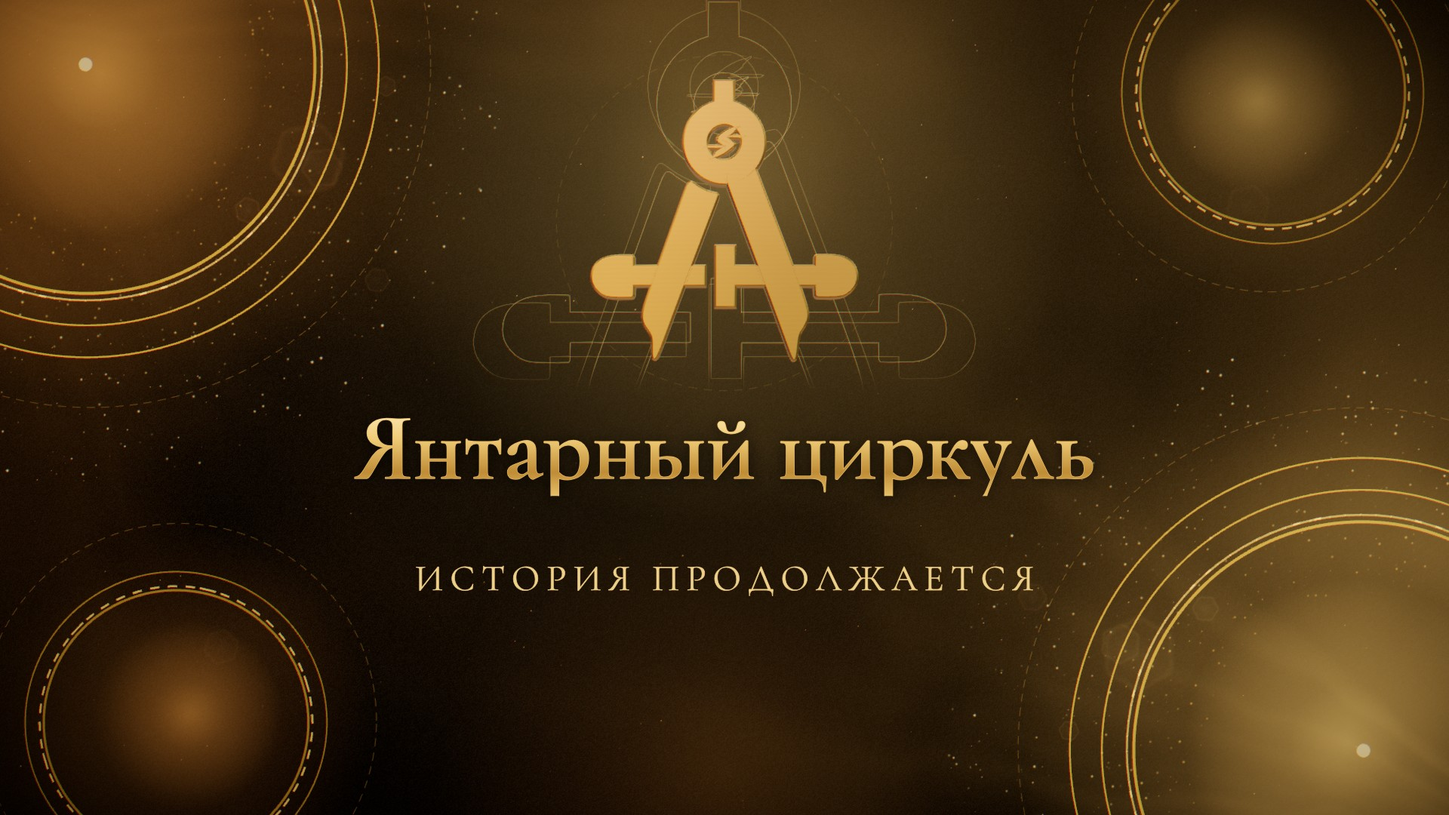
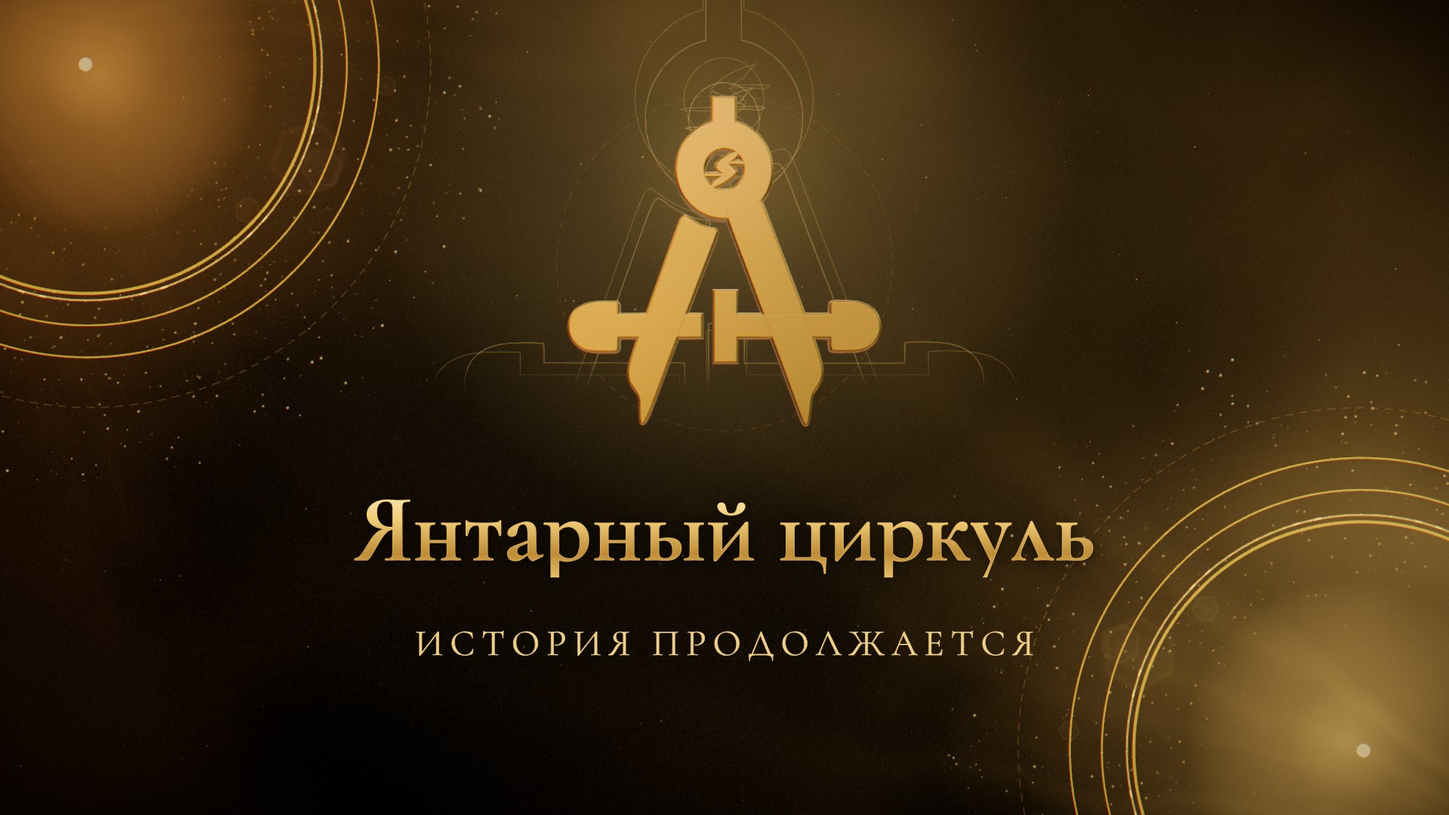
Крупный знак и титр в нижней трети; углы фона снова только два

diff --git a/src/fx.js b/src/fx.js
@@ -228,28 +228,14 @@ function makeGlowTexture() {
 }
 
 export class Corners {
-  /** @param {{distributed?: boolean}} [options] distributed — малые группы в двух
-   *  свободных углах; у интро остаются только основная пара, как в исходной сцене. */
-  constructor({ distributed = true } = {}) {
+  constructor() {
     this.group = new THREE.Group();
     this.glowTex = makeGlowTexture();
-    this.distributed = distributed;
-    // Основная диагональ — крупные кольца; вторая пара — тише и мельче,
-    // чтобы мотив был распределён по всему кадру.
+    // Две группы колец: слева сверху и справа снизу — как в исходной сцене.
     this.sides = {
       left: this._makeSide("left"),
       right: this._makeSide("right"),
     };
-    this.faint = { left: false, right: false };
-    this.sideScale = { left: 1, right: 1 };
-    if (distributed) {
-      this.sides.tr = this._makeSide("tr");
-      this.sides.bl = this._makeSide("bl");
-      this.faint.tr = true;
-      this.faint.bl = true;
-      this.sideScale.tr = 0.58;
-      this.sideScale.bl = 0.58;
-    }
     this.sig = "";
     this.matCount = 0;
     // разметка циркулем: пунктирная окружность и «ножка» — плоские, в плоскости фона
@@ -277,18 +263,7 @@ export class Corners {
     });
     this.sprites = {};
     this.lights = {};
-    // Мягкие ореолы в свободных квадрантах: свет распределён по кадру,
-    // а не собран только в двух противоположных углах.
-    this.veils = (distributed ? ["tr", "bl", "bottom"] : []).map((name) => {
-      const sprite = new THREE.Sprite(new THREE.SpriteMaterial({
-        map: this.glowTex, color: 0xffc172, transparent: true, depthWrite: false,
-        blending: THREE.AdditiveBlending, opacity: 0,
-      }));
-      sprite.position.z = -0.32;
-      this.group.add(sprite);
-      return { name, sprite };
-    });
-    for (const side of Object.keys(this.sides)) {
+    for (const side of ["left", "right"]) {
       const s = this.sides[side];
       const sprite = new THREE.Sprite(new THREE.SpriteMaterial({
         map: this.glowTex, color: 0xffb55c, transparent: true, depthWrite: false, blending: THREE.AdditiveBlending, opacity: 0.8,
@@ -339,19 +314,17 @@ export class Corners {
     const sig = [cfg.rings.radius, cfg.rings.thickness, cfg.rings.layers].join("|");
     if (sig === this.sig) return;
     this.sig = sig;
-    for (const side of Object.keys(this.sides)) {
+    for (const side of ["left", "right"]) {
       const s = this.sides[side];
-      const scale = this.sideScale[side];
-      const faint = this.faint[side];
       for (const l of s.layers) { s.group.remove(l.mesh); l.mesh.geometry.dispose(); l.mesh.material.dispose(); }
       if (s.ticks) { s.group.remove(s.ticks); s.ticks.geometry.dispose(); s.ticks = null; }
       if (s.construction) { s.group.remove(s.construction); s.construction.geometry.dispose(); }
       if (s.pivot) { s.group.remove(s.pivot); s.pivot.geometry.dispose(); }
       s.layers = [];
-      const layers = Math.max(faint ? 2 : 1, Math.round(cfg.rings.layers) - (faint ? 1 : 0));
+      const layers = Math.round(cfg.rings.layers);
       for (let i = 0; i < layers; i++) {
-        const r = cfg.rings.radius * scale * (1 + i * 0.14);
-        const tube = cfg.rings.thickness * (i === 0 ? 1.2 : 0.7) * (faint ? 0.8 : 1);
+        const r = cfg.rings.radius * (1 + i * 0.14);
+        const tube = cfg.rings.thickness * (i === 0 ? 1.2 : 0.7);
         const geo = new THREE.RingGeometry(r - tube * 0.5, r + tube * 0.5, 256, 1);
         const { mat, u } = this._ringMat(0xe0b25a);
         const mesh = new THREE.Mesh(geo, mat);
@@ -360,17 +333,15 @@ export class Corners {
         s.layers.push({ mesh, u, idx: i });
       }
       // архитектурные риски на внешнем кольце — плоские штрихи
-      const tickCount = faint ? 48 : 96;
-      s.tickTotal = tickCount;
-      const tickGeo = new THREE.PlaneGeometry(cfg.rings.thickness * 0.8, cfg.rings.radius * scale * 0.07);
+      const tickCount = 96;
+      const tickGeo = new THREE.PlaneGeometry(cfg.rings.thickness * 0.8, cfg.rings.radius * 0.07);
       const ticks = new THREE.InstancedMesh(tickGeo, this.tickMat, tickCount);
       const m = new THREE.Matrix4(), q = new THREE.Quaternion(), p = new THREE.Vector3(), sc = new THREE.Vector3(1, 1, 1);
       for (let i = 0; i < tickCount; i++) {
         const a = (i / tickCount) * Math.PI * 2;
         const major = i % 8 === 0 ? 1.8 : 1;
         sc.set(1, major, 1);
-        p.set(Math.cos(a) * cfg.rings.radius * scale * 1.03,
-          Math.sin(a) * cfg.rings.radius * scale * 1.03, 0);
+        p.set(Math.cos(a) * cfg.rings.radius * 1.03, Math.sin(a) * cfg.rings.radius * 1.03, 0);
         q.setFromAxisAngle(new THREE.Vector3(0, 0, 1), a);
         m.compose(p, q, sc);
         ticks.setMatrixAt(i, m);
@@ -382,19 +353,16 @@ export class Corners {
       const pts = [];
       for (let i = 0; i <= 192; i++) {
         const a = (i / 192) * Math.PI * 2;
-        pts.push(new THREE.Vector3(Math.cos(a) * cfg.rings.radius * scale * 1.5,
-          Math.sin(a) * cfg.rings.radius * scale * 1.5, -0.05));
+        pts.push(new THREE.Vector3(Math.cos(a) * cfg.rings.radius * 1.5, Math.sin(a) * cfg.rings.radius * 1.5, -0.05));
       }
       const construction = new THREE.Line(new THREE.BufferGeometry().setFromPoints(pts), this.constMat);
       construction.computeLineDistances();
       s.construction = construction;
       s.group.add(construction);
-      if (!faint) {
-        const pivot = new THREE.Mesh(new THREE.CircleGeometry(cfg.rings.radius * 0.03, 24), this.pivotMat);
-        pivot.position.z = 0.02;
-        s.pivot = pivot;
-        s.group.add(pivot);
-      }
+      const pivot = new THREE.Mesh(new THREE.CircleGeometry(cfg.rings.radius * 0.03, 24), this.pivotMat);
+      pivot.position.z = 0.02;
+      s.pivot = pivot;
+      s.group.add(pivot);
     }
   }
 
@@ -408,8 +376,6 @@ export class Corners {
       left: { x: -halfW * cfg.rings.cornerX * 2, y: halfH * cfg.rings.cornerY * 2, dir: 1 },
       right: { x: halfW * cfg.rings.cornerX * 2, y: -halfH * cfg.rings.cornerY * 2, dir: -1 },
       // Малые группы чуть отведены от кромки, чтобы читались целиком.
-      tr: { x: halfW * cfg.rings.cornerX * 1.72, y: halfH * cfg.rings.cornerY * 1.84, dir: -1 },
-      bl: { x: -halfW * cfg.rings.cornerX * 1.72, y: -halfH * cfg.rings.cornerY * 1.84, dir: 1 },
     };
     const sp = cfg.rings.speed;
     const ringCol = new THREE.Color(cfg.colors.gold).multiplyScalar(0.8 + 0.3 * cfg.rings.glowIntensity);
@@ -424,59 +390,38 @@ export class Corners {
     cr.scale.setScalar(cfg.rings.radius * (0.8 - 0.06 * focus));
     this.centerMat.opacity = 0.18 * env * (1 - 0.67 * focus);
     this.tickMat.opacity = 0.8 * env * (1 - 0.2 * focus);
-    for (const name of Object.keys(this.sides)) {
+    for (const name of ["left", "right"]) {
       const s = this.sides[name];
       const c = sides[name];
-      const faint = this.faint[name];
-      // Мелкие группы живут тише и разгораются позже — свет распределён, но не спорит.
-      const sideEnv = env * (faint ? 0.62 : 1);
       s.group.position.set(c.x, c.y, 0);
-      s.group.visible = cfg.rings.enabled && sideEnv > 0.0005;
+      s.group.visible = cfg.rings.enabled && env > 0.0005;
       s.group.scale.setScalar(1);
       // кольца рисуются дугой из плоскости фона: появление и уход — через проход дуги, без масштаба
       s.layers.forEach((l) => {
         l.mesh.material.color.copy(ringCol);
         l.u.value = ringSweep(env, l.idx);
-        l.mesh.material.opacity = (1 - 0.38 * focus) * (faint ? 0.50 : 1);
+        l.mesh.material.opacity = 1 - 0.38 * focus;
       });
       // Риски и пунктир не должны заранее выдавать уже замкнутый круг:
       // отрисовываем только построенный сектор, как у основных дуг.
       const construction = ringSweep(env, 0);
       if (s.ticks) {
-        s.ticks.count = Math.ceil((s.tickTotal || 96) * construction);
+        s.ticks.count = Math.ceil(96 * construction);
         s.ticks.rotation.set(0, 0, t * sp * 0.2 * c.dir);
       }
       s.construction?.geometry.setDrawRange(0, Math.ceil(193 * construction));
 
-      const phaseShift = name === "left" ? 0 : name === "right" ? 2.1 : name === "tr" ? 4.4 : 5.6;
-      const flick = 1 + cfg.rings.flicker * (Math.sin(t * 7.3 + phaseShift) * 0.5 + Math.sin(t * 2.9 + 4.0) * 0.5);
-      const lightCol = name === "left" || name === "bl" ? cfg.colors.lightLeft : cfg.colors.lightRight;
-      const intensity = cfg.rings.lightStrength * flick * 6 * cfg.lights.exposure * sideEnv *
-        (1 - 0.55 * focus) * (faint ? 0.45 : 1);
+      const flick = 1 + cfg.rings.flicker * (Math.sin(t * 7.3 + (name === "left" ? 0 : 2.1)) * 0.5 + Math.sin(t * 2.9 + 4.0) * 0.5);
+      const lightCol = name === "left" ? cfg.colors.lightLeft : cfg.colors.lightRight;
+      const intensity = cfg.rings.lightStrength * flick * 6 * cfg.lights.exposure * env * (1 - 0.55 * focus);
       const light = this.lights[name];
       light.color.set(lightCol);
       light.intensity = intensity;
       light.distance = 10 + cfg.background.lightSpread * 4;
       const sprite = this.sprites[name];
       sprite.material.color.set(lightCol);
-      sprite.material.opacity = Math.min(1, 0.45 * cfg.rings.glowIntensity * flick) * sideEnv *
-        (1 - 0.50 * focus) * (faint ? 0.55 : 1);
-      sprite.scale.setScalar(cfg.rings.radius * 4.2 * cfg.background.lightSpread * this.sideScale[name]);
-    }
-    // Заполняющий свет: заметно тише основных углов, чтобы не спорить с титром.
-    const veilPositions = {
-      tr: { x: halfW * cfg.rings.cornerX * 1.72, y: halfH * cfg.rings.cornerY * 1.84 },
-      bl: { x: -halfW * cfg.rings.cornerX * 1.72, y: -halfH * cfg.rings.cornerY * 1.84 },
-      bottom: { x: 0, y: -halfH * 0.92 },
-    };
-    for (const { name, sprite } of this.veils) {
-      const p = veilPositions[name];
-      const flick = 1 + cfg.rings.flicker * 0.5 * Math.sin(t * 1.7 + (name === "tr" ? 1.2 : name === "bl" ? 3.4 : 5.1));
-      sprite.position.set(p.x, p.y, -0.32);
-      sprite.material.color.set(name === "tr" ? cfg.colors.lightRight : cfg.colors.lightLeft);
-      sprite.material.opacity = (name === "bottom" ? 0.11 : 0.20) * env * flick * (1 - 0.6 * focus);
-      sprite.scale.setScalar(cfg.rings.radius * (name === "bottom" ? 7.0 : 2.3) *
-        cfg.background.lightSpread * flick);
+      sprite.material.opacity = Math.min(1, 0.45 * cfg.rings.glowIntensity * flick) * env * (1 - 0.50 * focus);
+      sprite.scale.setScalar(cfg.rings.radius * 4.2 * cfg.background.lightSpread);
     }
     return { left: this.sides.left.group.position, right: this.sides.right.group.position };
   }

diff --git a/src/bokeh.js b/src/bokeh.js
@@ -42,9 +42,7 @@ const smooth = (a, b, x) => {
 
 /** Небольшие детерминированные линзовые кружки, прикреплённые к крайним кольцам. */
 export class SolarBokeh {
-  /** @param {{distributed?: boolean}} [options] distributed — свободные кружки
-   *  в остальных квадрантах; интро сохраняет только прежние блики у колец. */
-  constructor({ distributed = true } = {}) {
+  constructor() {
     this.group = new THREE.Group();
     this.geometry = new THREE.PlaneGeometry(1, 1);
     this.discs = [];
@@ -68,31 +66,6 @@ export class SolarBokeh {
         this.discs.push({ mesh, uniforms, side, i, seed });
       }
     }
-    // Свободные кружки в других квадрантах: блики распределены по всему кадру.
-    // Координаты заданы в долях от угла: положительный x — правая часть кадра,
-    // положительный y — верхняя. Пустые квадранты получают свои блики.
-    this.free = (distributed ? [
-      { at: [0.85, 0.62], size: 0.34, seed: 61.2, drift: 0.9 },
-      { at: [-0.8, -0.7], size: 0.27, seed: 73.9, drift: 1.3 },
-      { at: [0.5, -0.55], size: 0.22, seed: 88.4, drift: 0.7 },
-      { at: [-0.55, 0.4], size: 0.19, seed: 95.1, drift: 1.1 },
-    ] : []).map(({ at, size, seed, drift }) => {
-      const uniforms = {
-        uColor: { value: new THREE.Color(0xffc884) },
-        uSeed: { value: seed },
-        uTime: { value: 0 },
-        uOpacity: { value: 0 },
-        uFlare: { value: 0 },
-      };
-      const mesh = new THREE.Mesh(this.geometry, new THREE.ShaderMaterial({
-        vertexShader: VERT, fragmentShader: FRAG, uniforms,
-        transparent: true, depthWrite: false, blending: THREE.AdditiveBlending,
-        side: THREE.DoubleSide,
-      }));
-      mesh.renderOrder = 1;
-      this.group.add(mesh);
-      return { mesh, uniforms, at, size, seed, drift };
-    });
   }
 
   update(t, ph, cfg, positions) {
@@ -115,21 +88,10 @@ export class SolarBokeh {
       uniforms.uOpacity.value = (i === 0 ? (0.15 + 0.7 * sun) : 0.20 + 0.06 * Math.sin(seed)) *
         env * (1 - 0.76 * focus);
     }
-    // Равномерное поле: кружки держатся дальше от титра и не спорят с ним.
-    for (const { mesh, uniforms, at, size, seed, drift } of this.free) {
-      const baseX = at[0] < 0 ? positions.left.x : positions.right.x;
-      const baseY = at[1] > 0 ? positions.left.y : positions.right.y;
-      mesh.position.set(baseX * Math.abs(at[0]) + 0.05 * Math.sin(ph.local * 0.3 + drift),
-        baseY * Math.abs(at[1]) + 0.04 * Math.cos(ph.local * 0.24 + drift), -0.24);
-      mesh.scale.setScalar(size * cfg.rings.radius * 1.1);
-      uniforms.uTime.value = ph.local;
-      uniforms.uOpacity.value = (0.16 + 0.05 * Math.sin(seed)) * env * (1 - 0.82 * focus);
-    }
   }
 
   dispose() {
     this.geometry.dispose();
     for (const { mesh } of this.discs) mesh.material.dispose();
-    for (const { mesh } of this.free) mesh.material.dispose();
   }
 }

diff --git a/src/scene.js b/src/scene.js
@@ -100,13 +100,12 @@ export class LogoScene {
     this.contourWaves = intro ? null : new ContourWaves(this.logo);
     if (this.contourWaves) this.scene.add(this.contourWaves.group);
 
-    // Кольца и частицы. Интро сохраняет исходную пару углов; фирменный фон
-    // и родственные сцены получают распределённые по кадру малые группы.
-    this.corners = new Corners({ distributed: !this.isIntro });
+    // Кольца и частицы: только левый верх и правый низ, как в исходной сцене.
+    this.corners = new Corners();
     this.scene.add(this.corners.group);
     this.plotter = new Plotter(this.corners.glowTex, this.logo);
     this.scene.add(this.plotter.group);
-    this.solarBokeh = new SolarBokeh({ distributed: !this.isIntro });
+    this.solarBokeh = new SolarBokeh();
     this.scene.add(this.solarBokeh.group);
     this.particles = new Particles();
     this.sparks = new Sparks(this.logo);

diff --git a/src/styles.css b/src/styles.css
@@ -37,14 +37,16 @@ body.scene-photo #caption .cap-sub,
 body.scene-photo #caption .cap-date,
 body.scene-finale #caption .cap-rule,
 body.scene-finale #caption .cap-date { display: none; }
+/* Фоновые сцены: титр опущен в нижнюю треть, знак крупнее. */
+body.scene-brand #caption .cap-title { left: 50%; top: 65%; }
 body.scene-photo #caption .cap-title {
-  left: 50%; top: 55%; font-size: calc(var(--u) * 6.7);
+  left: 50%; top: 65%; font-size: calc(var(--u) * 6.7);
 }
 body.scene-finale #caption .cap-title {
-  left: 50%; top: 55%; font-size: calc(var(--u) * 6.6);
+  left: 50%; top: 65%; font-size: calc(var(--u) * 6.6);
 }
 body.scene-finale #caption .cap-sub {
-  left: 50%; top: 71%; font-size: calc(var(--u) * 2.55);
+  left: 50%; top: 79%; font-size: calc(var(--u) * 2.55);
   letter-spacing: .18em; padding-left: .18em;
 }
 /* Мышь видна всегда. Только элементы пульта исчезают после бездействия. */

diff --git a/src/caption-compositor.js b/src/caption-compositor.js
@@ -165,13 +165,16 @@ export function drawCaption(ctx, alpha, sceneId) {
     g.addColorStop(0.75, "#c08c36"); g.addColorStop(1, "#e8c06a");
     return g;
   };
+  // У интро три строки, поэтому название остаётся выше; в фоновых сценах титр
+  // опущен в нижнюю треть, чтобы под ним не оставалось пустого поля.
+  const titleY = (brand || photo || finale) ? 0.65 * H : 0.55 * H;
   textLine(".cap-title", {
-    y: 0.55 * H, centerX: W / 2,
+    y: titleY, centerX: W / 2,
     weight: 600, size: tSize, ls: 0, stroke: "#e0b25a", sw: 0.08 * u, shadow: true, fill: titleGrad,
   });
   if (finale) {
     textLine(".cap-sub", {
-      y: 0.71 * H, weight: 400, size: 2.55 * u, ls: 0.18 * 2.55 * u,
+      y: 0.79 * H, weight: 400, size: 2.55 * u, ls: 0.18 * 2.55 * u,
       stroke: "#d9b061", sw: 0.04 * u, fill: "#ecd08c",
     });
   }

diff --git a/src/scenes/shared-visuals.js b/src/scenes/shared-visuals.js
@@ -5,6 +5,10 @@ import { WAITING_DEFAULTS } from "./waiting.js";
 export function createSharedSceneRenderConfig(timeline) {
   // Своя копия визуальных параметров не изменяет настройки первой сцены.
   const cfg = JSON.parse(JSON.stringify(WAITING_DEFAULTS));
+  // Композиция фоновых сцен: знак крупнее и ниже, титр — в нижней трети,
+  // чтобы не оставалось пустого поля под названием.
+  cfg.logo.scale = 0.58;
+  cfg.logo.offsetY = 0.86;
   // Ссылка намеренно общая с runtime: изменение длительности работает без пересоздания сцены.
   if (timeline) cfg.timeline = timeline;
   return cfg;

diff --git a/src/scenes/cues.js b/src/scenes/cues.js
@@ -38,6 +38,6 @@ export function contourWave(time, index) {
     // Эхо рождается уже больше знака: тонкие копии расходятся вокруг него,
     // а не ложатся двойным контуром прямо по силуэту.
     scale: 1.32 + 0.66 * expansion,
-    opacity: 0.17 * smooth(0.04, 0.22, phase) * (1 - smooth(0.38, 1, phase)),
+    opacity: 0.15 * smooth(0.04, 0.22, phase) * (1 - smooth(0.38, 1, phase)),
   };
 }

diff --git a/README.md b/README.md
@@ -14,7 +14,7 @@
 
 ## 01 · Стартовое интро
 
-Первый ролик — открытие вечера, а не экран ожидания. Его можно открыть по `?scene=intro` (старый адрес `?scene=waiting` тоже работает). Вступление начинается с золотого света и построительной точки; камера подъезжает к слегка повёрнутому символу, свет раскрывается лучами и коротким бликом, а знак поворачивается к зрителю. Когда появляются надписи, свет уступает им место. На готовой композиции нет фоновых копий контура или пунктирного кольца вокруг логотипа: расходящиеся контуры сохранены для фирменного фона №02 и родственных сцен. Угловые огни в интро остаются только в двух местах — слева сверху и справа снизу; дополнительные малые группы и заполняющий свет есть лишь в фоновом ролике.
+Первый ролик — открытие вечера, а не экран ожидания. Его можно открыть по `?scene=intro` (старый адрес `?scene=waiting` тоже работает). Вступление начинается с золотого света и построительной точки; камера подъезжает к слегка повёрнутому символу, свет раскрывается лучами и коротким бликом, а знак поворачивается к зрителю. Когда появляются надписи, свет уступает им место. На готовой композиции нет фоновых копий контура или пунктирного кольца вокруг логотипа: расходящиеся контуры сохранены для фирменного фона №02 и родственных сцен. Угловые огни и в интро, и в фоновом ролике остаются только в двух местах — слева сверху и справа снизу.
 
 Световая точка намечает окружность → передаёт движение контуру циркуля → проявление из тени → удержание → последовательный уход даты, подзаголовка и названия → уход золота и обратная прорисовка → тёмный шов. Буквы последовательно гравируются контуром и заполняются золотом; под знаком остаются название, подзаголовок и дата. На удержании фон, пыль и крайние кольца продолжают двигаться.
 
@@ -58,7 +58,7 @@
 
 ## Фирменный фон
 
-Откройте `?scene=brand` (например, `http://localhost:5173/?scene=brand`). По центру расположен символ циркуля, **название «Янтарный циркуль» — под ним**, без даты и дополнительных строк. Световая точка и контур собирают композицию в общем стиле с интро; золотой свет, фактура, кольца, частицы и расходящиеся контуры непрерывно оживляют удержание. Кольца и свет распределены по всем четырём углам кадра, а эхо-контуры рождаются уже крупнее знака, поэтому не дублируют его силуэт. В конце текст гаснет, логотип уходит в тень, а точка отматывает контур и построительную окружность к исходной точке. Полный цикл — **24 с**. В нижнем пульте есть пауза, запись одного цикла WebM и кнопки 01/02/08/09; в экспорт они не попадают. [Контрольный кадр](docs/brand-background.jpg). Проверка `npm run verify:brand` проверяет оформление, фазы, текст в canvas и покадровый шов.
+Откройте `?scene=brand` (например, `http://localhost:5173/?scene=brand`). По центру расположен символ циркуля, **название «Янтарный циркуль» — под ним**, без даты и дополнительных строк. Световая точка и контур собирают композицию в общем стиле с интро; золотой свет, фактура, кольца, частицы и расходящиеся контуры непрерывно оживляют удержание. Знак крупнее, титр стоит в нижней трети кадра, а эхо-контуры рождаются уже больше знака и не дублируют его силуэт. В конце текст гаснет, логотип уходит в тень, а точка отматывает контур и построительную окружность к исходной точке. Полный цикл — **24 с**. В нижнем пульте есть пауза, запись одного цикла WebM и кнопки 01/02/08/09; в экспорт они не попадают. [Контрольный кадр](docs/brand-background.jpg). Проверка `npm run verify:brand` проверяет оформление, фазы, текст в canvas и покадровый шов.
 
 ## Фотопауза и финал
 

diff --git a/docs/brand-animatic.md b/docs/brand-animatic.md
@@ -4,8 +4,8 @@
 
 Золотой символ циркуля расположен по центру, название «Янтарный циркуль» — под ним. Даты и подзаголовка нет. Золотой свет, угловые кольца и пыль поддерживают фирменный язык интро, но без его стартовой вспышки и движения камеры.
 
-Свет и графика распределены по кадру, а не собраны в одной диагонали: крупные кольца с разметкой стоят в левом верхнем и правом нижнем углах, в двух других — их уменьшенная и более тихая пара, а по кадру разбросаны линзовые кружки и низкое свечение снизу. Так ни один квадрант не остаётся пустым, а титр сохраняет спокойное поле вокруг.
+Композиция выстроена крупно: знак занимает почти половину высоты кадра, а титр стоит в нижней трети — под ним больше нет пустого поля. Угловые кольца с разметкой только в левом верхнем и правом нижнем углах; в двух других углах дополнительных кругов нет.
 
-На удержании за знаком расходятся и затухают тонкие копии его контура: они рождаются уже крупнее знака и не ложатся вторым контуром по силуэту. В интро этого фонового эффекта нет, а волны не заходят в область титра. После удержания текст, знак и построительная окружность уходят в обратном порядке, а короткий тёмный участок замыкает 24-секундный цикл. Если фон используется за выступающим, перед показом проверить читаемость названия из зала и не перекрывает ли человек центральную часть композиции.
+На удержании за знаком расходятся и затухают тонкие копии его контура: они рождаются уже крупнее знака и не ложатся вторым контуром по силуэту, а надпись остаётся в спокойной зоне ниже. В интро этого фонового эффекта нет, а волны не заходят в область титра. После удержания текст, знак и построительная окружность уходят в обратном порядке, а короткий тёмный участок замыкает 24-секундный цикл. Если фон используется за выступающим, перед показом проверить читаемость названия из зала и не перекрывает ли человек центральную часть композиции.
 
 Управление в предпросмотре: пауза, запись WebM одного цикла, возврат к стартовому интро. Кнопки не попадают в видеокадр. Для программного покадрового экспорта — `URL=http://localhost:5173/?scene=brand npm run render:frames`; для проверки кадра, состава титра, экспортного canvas и шва — `npm run verify:brand`.
